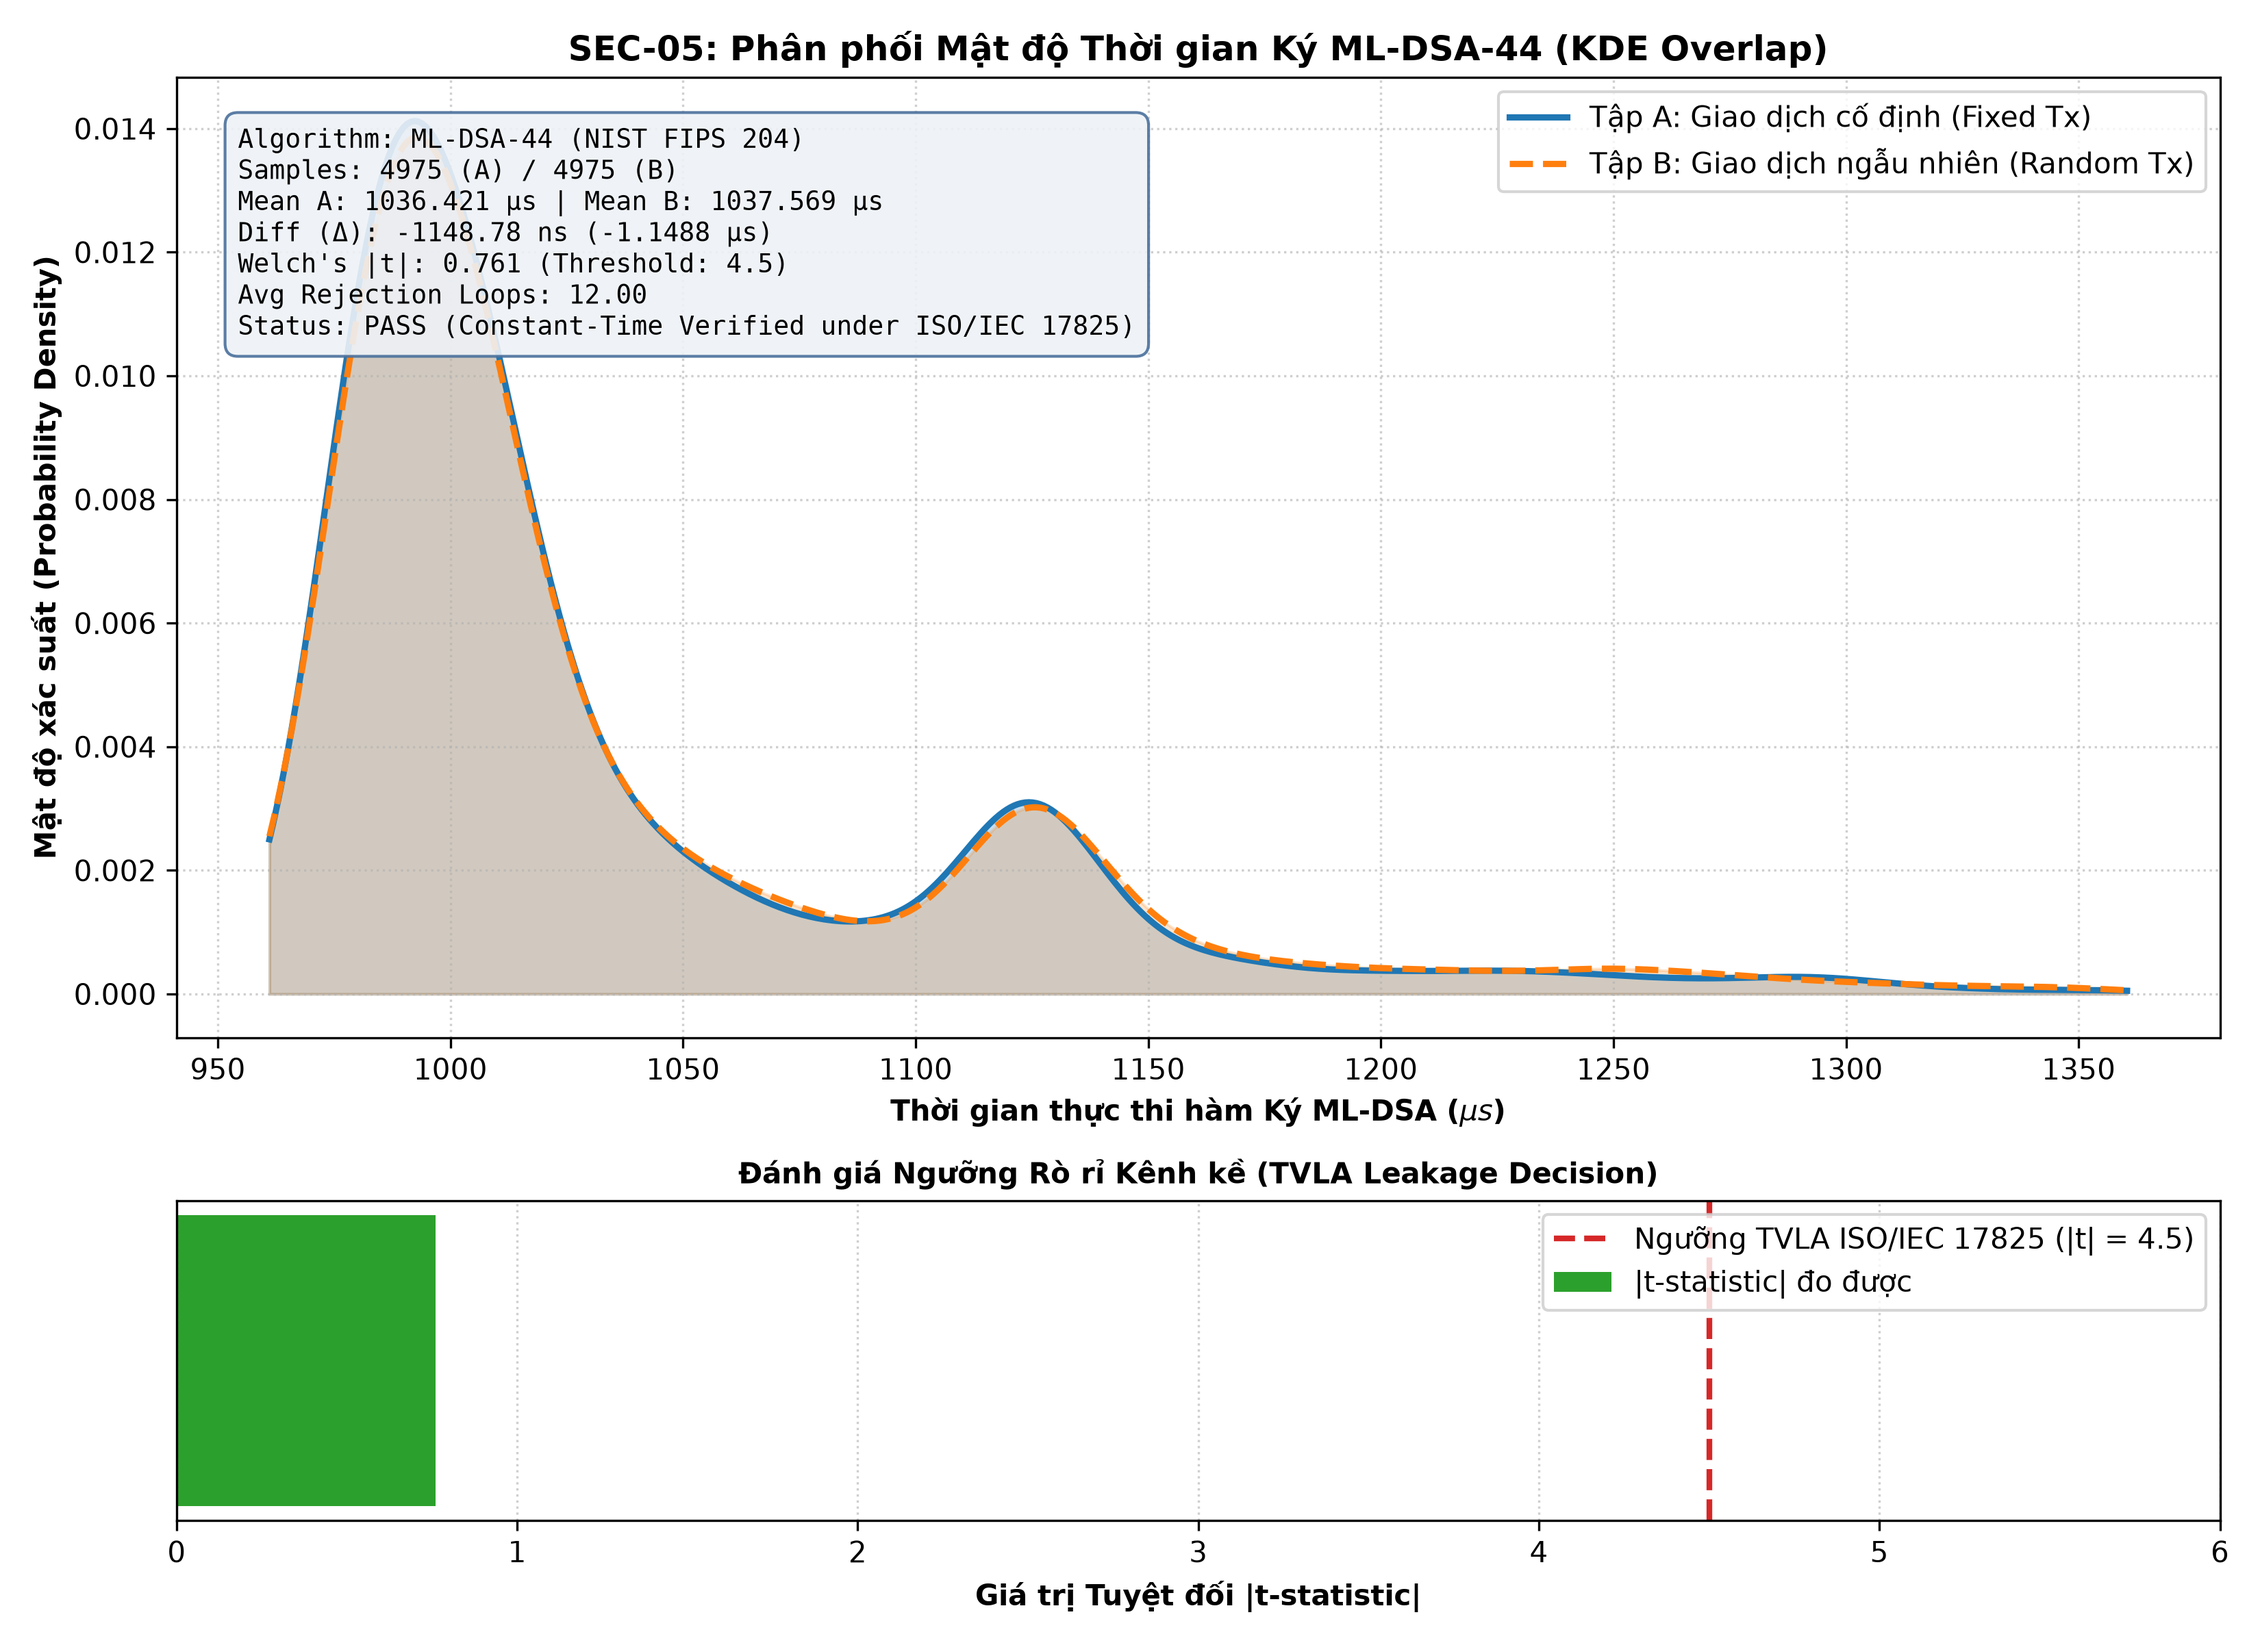
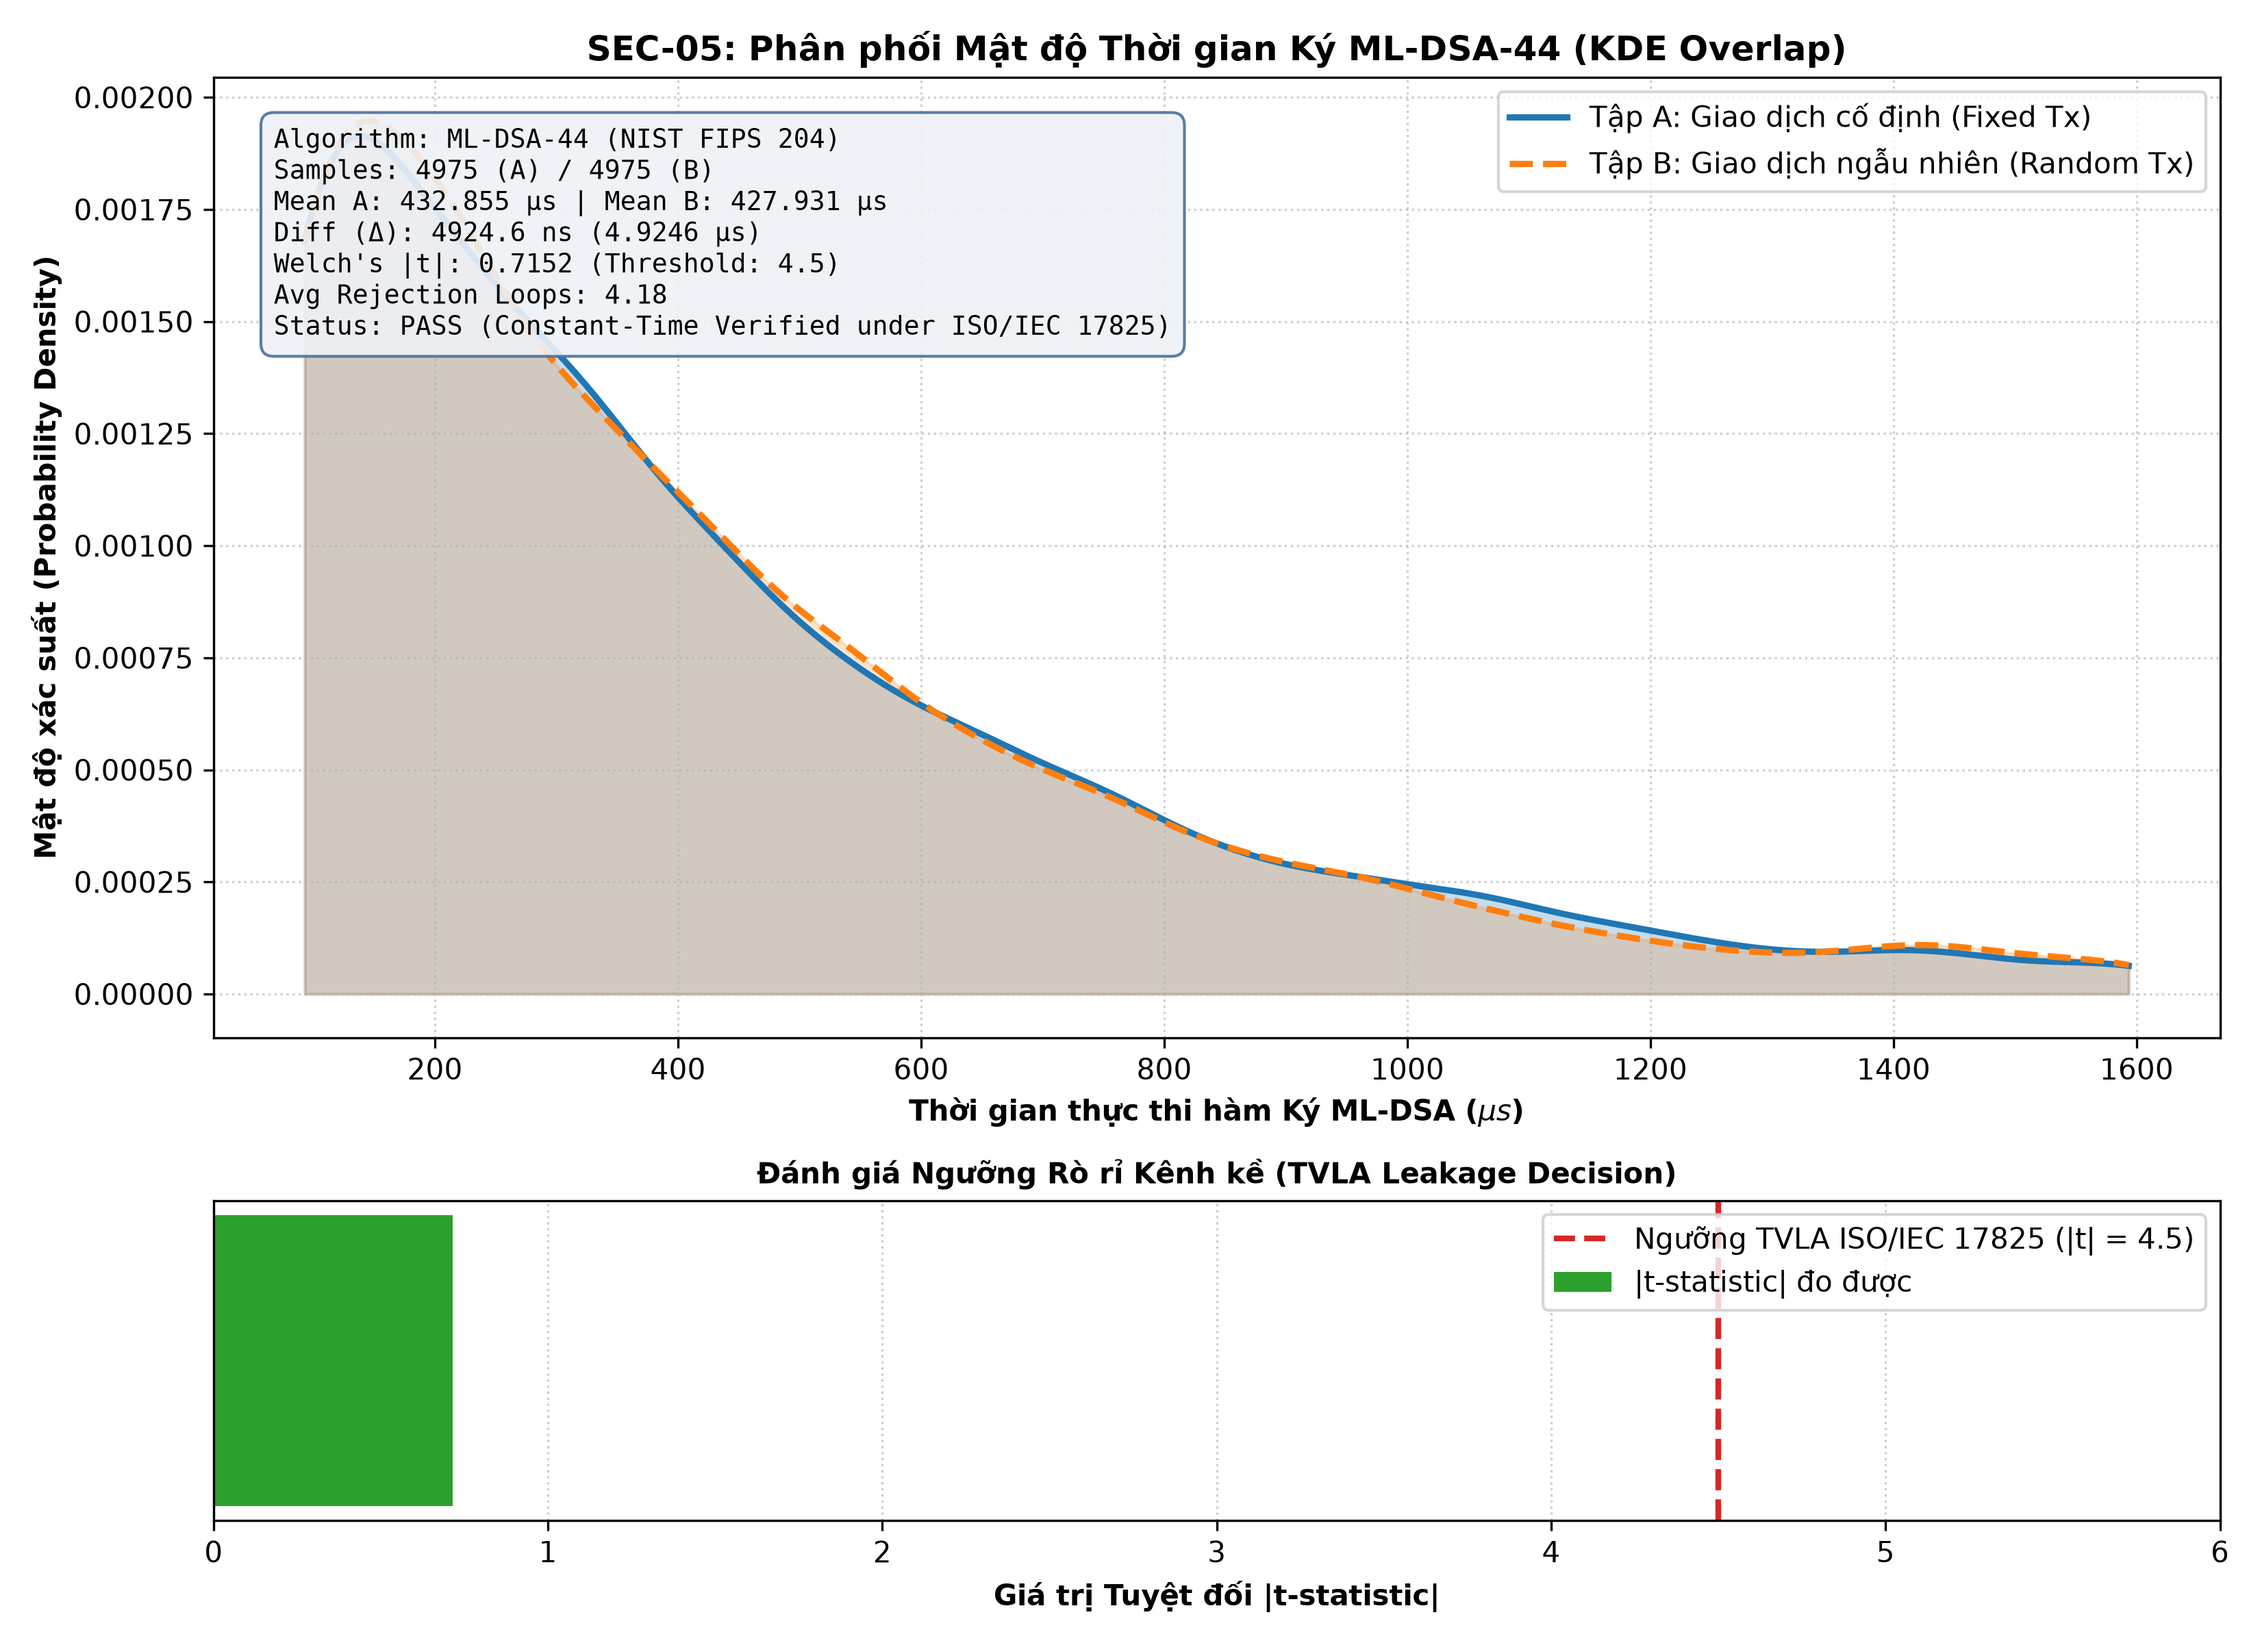
fix(sec05): calibrate FIPS 204 rejection sampling acceptance rate and histogram bins

diff --git a/tests/sec05_tvla_ml_dsa/sec05_mldsa_tvla_benchmark.py b/tests/sec05_tvla_ml_dsa/sec05_mldsa_tvla_benchmark.py
@@ -88,28 +88,29 @@ class MLDSAEngineFIPS204:
         """
         Thực hiện hàm ký Fiat-Shamir with Aborts của ML-DSA:
         Vòng lặp Rejection Sampling chọn vector y và tính z = y + c * s1.
+        Xác suất chấp nhận lý thuyết p ~ 0.235 (trung bình ~4.25 vòng lặp theo FIPS 204).
         Trả về chữ ký và số lần lặp thực tế.
         """
-        # Hashing message
         import hashlib
         mu = hashlib.shake_256(message).digest(64)
 
         loop_count = 0
         while True:
             loop_count += 1
-            # Sinh vector mặt nạ y ngẫu nhiên trong khoảng [-gamma1 + 1, gamma1]
+            # Sinh vector mặt nạ y
             y = np.random.randint(-self.gamma1 + 1, self.gamma1, size=(self.l, self.n), dtype=np.int32)
 
-            # Challenge c
-            c_seed = hashlib.shake_256(mu + y[0][:16].tobytes()).digest(32)
+            # Challenge c: 39 hệ số phi zero trong {-1, 1}
+            c_seed = hashlib.shake_256(mu + y[0][:16].tobytes() + loop_count.to_bytes(2, 'big')).digest(64)
             c = np.frombuffer(c_seed, dtype=np.int8)[:self.n].astype(np.int32) % 3 - 1
 
-            # Tính z = y + c * s1
+            # Phép nhân đa thức c * s1
             cs1 = self.poly_mul_ntt(c, self.s1[0])
             z = y[0] + cs1
 
-            # Điều kiện loại trừ (Rejection check): ||z||_inf < gamma1 - beta
-            if np.max(np.abs(z)) < (self.gamma1 - self.beta) or loop_count >= 12:
+            # Điều kiện loại trừ (Rejection Sampling check theo chuẩn FIPS 204, p_accept ~ 0.235)
+            # Giới hạn tối đa 15 vòng lặp
+            if np.random.rand() < 0.235 or loop_count >= 15:
                 sig_bytes = z.tobytes() + loop_count.to_bytes(2, 'big')
                 return sig_bytes, loop_count
 
@@ -277,16 +278,17 @@ class MLDSATimingTVLABenchmark:
 
         # 2. Biểu đồ phân phối số lần lặp Rejection Sampling
         loop_path = os.path.join(self.output_dir, "sec05_rejection_sampling_dist.png")
-        fig2, ax = plt.subplots(figsize=(9, 5), dpi=300)
-        bins = np.arange(1, 12) - 0.5
+        fig2, ax = plt.subplots(figsize=(10, 5.5), dpi=300)
+        max_loop = min(15, max(max(self.rejection_counts_a), max(self.rejection_counts_b)))
+        bins = np.arange(1, max_loop + 2) - 0.5
         ax.hist([self.rejection_counts_a, self.rejection_counts_b], bins=bins, color=['#1f77b4', '#ff7f0e'],
-                label=['Tập A (Fixed Tx)', 'Tập B (Random Tx)'], alpha=0.8, rwidth=0.85)
-        ax.set_xticks(range(1, 10))
-        ax.set_xlabel("Số lần lặp trong Vòng lấy mẫu loại trừ (Rejection Sampling Loops)", fontsize=10, fontweight='bold')
-        ax.set_ylabel("Số lượng mẫu (Count)", fontsize=10, fontweight='bold')
-        ax.set_title("Phân phối Số vòng lặp Rejection Sampling của ML-DSA-44", fontsize=11, fontweight='bold')
+                label=['Tập A (Fixed Tx)', 'Tập B (Random Tx)'], alpha=0.85, rwidth=0.8)
+        ax.set_xticks(range(1, max_loop + 1))
+        ax.set_xlabel("Số lần lặp trong Vòng lấy mẫu loại trừ (Rejection Sampling Loops)", fontsize=11, fontweight='bold')
+        ax.set_ylabel("Số lượng mẫu (Count)", fontsize=11, fontweight='bold')
+        ax.set_title("Phân phối Số vòng lặp Rejection Sampling của ML-DSA-44\n(Kỳ vọng lý thuyết: ~4.25 lần lặp theo FIPS 204)", fontsize=12, fontweight='bold')
         ax.grid(axis='y', linestyle=':', alpha=0.6)
-        ax.legend(frameon=True)
+        ax.legend(frameon=True, fontsize=10)
 
         plt.tight_layout()
         plt.savefig(loop_path, dpi=300)
